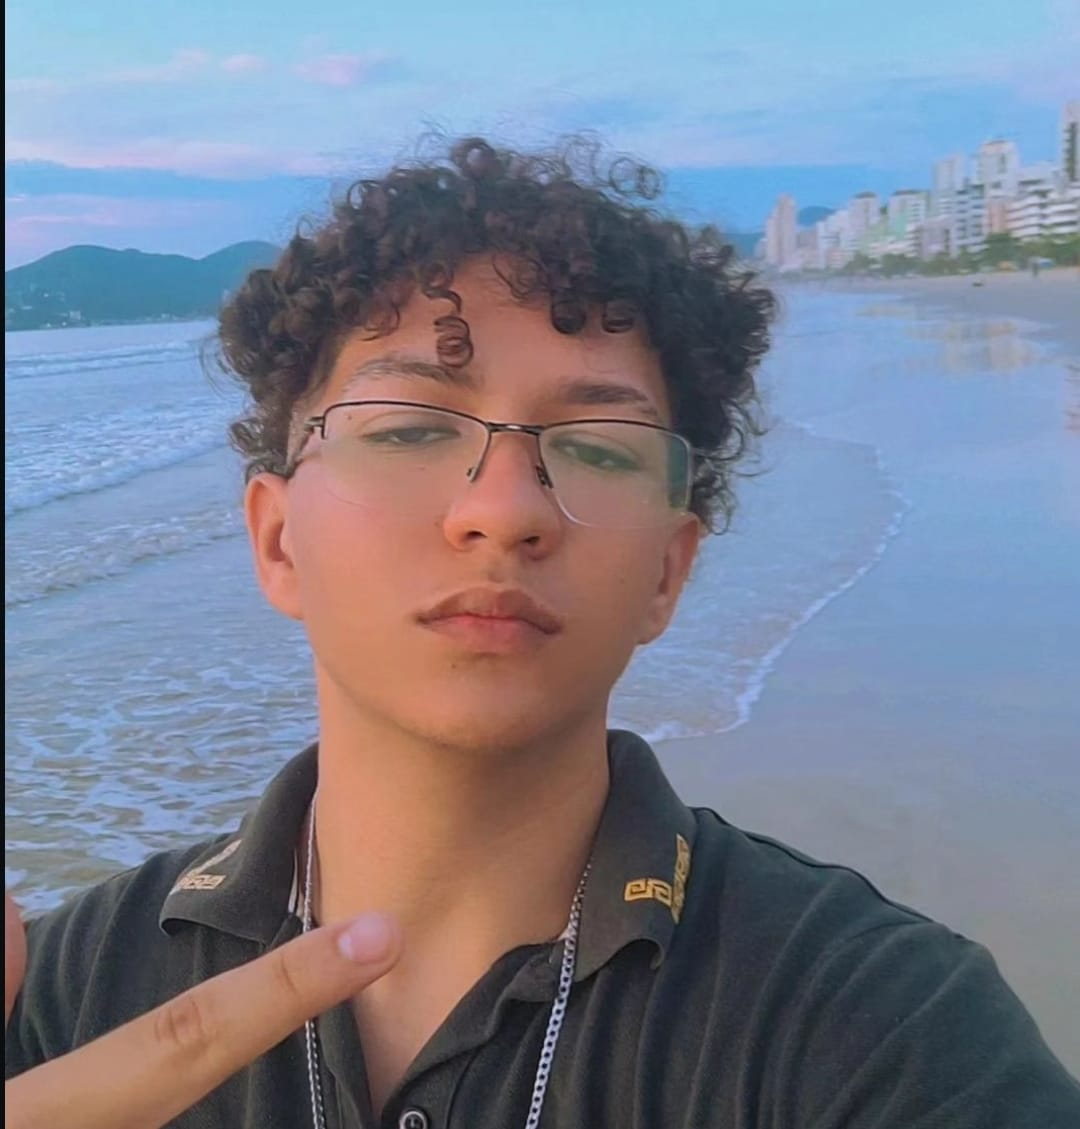
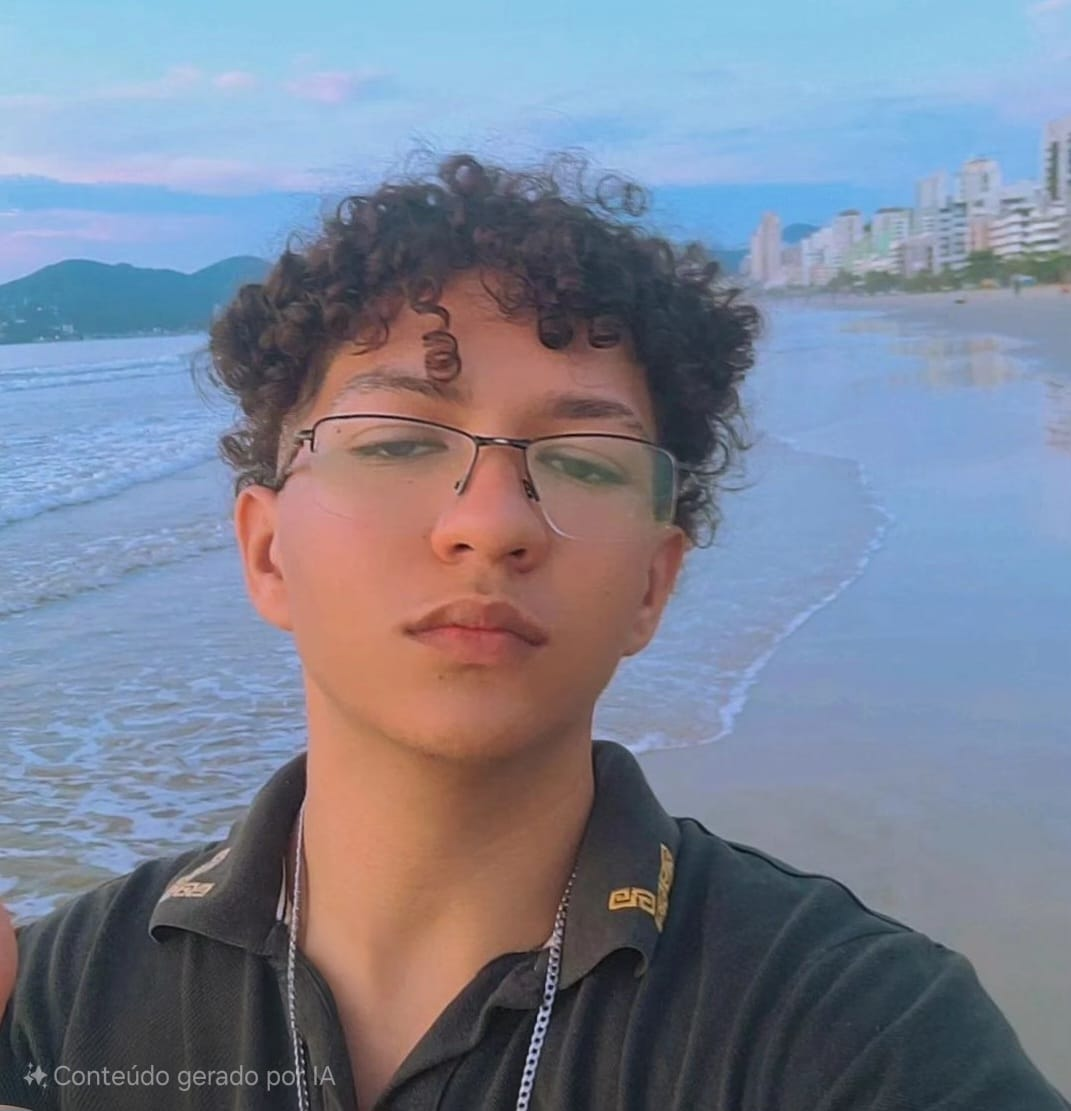
Add files via upload

diff --git a/index.html b/index.html
@@ -15,8 +15,8 @@
         <div class="profile">
             <div class="info">
                 <h1>Igor Fellipe S. Gato</h1>
-                <h3>Eng. de Software</h3>
-                <h4>+55 (43) 98411-9082 &nbsp; &nbsp; &nbsp; &nbsp; &nbsp; &nbsp; igorfellipesantos03@gmail.com</h4>
+                <h3>Engenheiro de Software</h3>
+                <h4>igorfellipesantos03@gmail.com</h4>
                 <h2>Work Experience</h2>
                 <h5>Education</h5>
                 <h6>Skills</h6>
@@ -39,19 +39,19 @@
                             </div>
                             <div class="responsa">
                                 <ul class="activities">
-                                    <li>Help Desk</li>
+                                    <li>Service Desk</li>
                                     <li>Windows</li>
-                                    <li>Servidores</li>
+                                    <li>Remote Acess</li>
                                 </ul>
 
                                 <ul class="activities2">
                                     <li>AD</li>
                                     <li>SAP</li>
-                                    <li>Suporte</li>
+                                    <li>Virtual Machine</li>
                                 </ul>
                             </div>
                             <div class="data">
-                                <p class="data">Out 2023 - Atual</p>
+                                <p class="data">Out 2023 - Mai 2025</p>
                             </div>
                             <div class="local">
                                 <p class="local">Londrina, PR</p>
@@ -152,9 +152,9 @@
                             <h1>Conhecimentos</h1>
                             <div class="skill-info">
                                 <ul>
-                                    <li>Java, JavaScript, Html, C++, Python</li>
+                                    <li>Java, JavaScript, Html, PHP, SQL, POO</li>
                                     <li>Metodologias ágeis</li>
-                                    <li>Programação orientada a Objetos</li>
+                                    <li>Engenharia de Software</li>
                                 </ul>
                             </div>
                         </div>
@@ -162,8 +162,8 @@
                 </div>
 
             </div>
-                <h8>Hobby</h8>
-                <h9>Design./..Series./ ..Filmes./ ..Video Game./ ..Festas</h9>
+                <h8>Extras</h8>
+                <h9>Design./ ..Redes./ ..Games./ ..Editor de Video</h9>
             </div>
 
 </body>

diff --git a/README.md b/README.md
@@ -1,0 +1,22 @@
+Currículo Igor Fellipe - Melhorias e Responsividade
+Bem-vindo ao repositório do projeto de melhoria do currículo do Igor Fellipe! Este projeto foi desenvolvido por mim e pelo Igor Fellipe com o objetivo de aprimorar o currículo dele, identificando e corrigindo dois problemas principais: a falta de responsividade da página e a organização confusa do código HTML.
+Sobre o Projeto
+O currículo original apresentava:
+Falta de responsividade: A página não se adaptava bem a diferentes tamanhos de tela, como em dispositivos móveis.
+
+HTML desorganizado: O código estava com indentação inconsistente e estrutura pouco clara, dificultando a manutenção.
+
+Nosso trabalho focou em:
+Tornar a página responsiva para melhorar a experiência em diversos dispositivos.
+
+Reorganizar o HTML para torná-lo mais legível e bem estruturado.
+
+Estrutura do Repositório
+Branch main: Contém os códigos originais do currículo, antes das melhorias.
+
+Branch correcao: Contém o código atualizado, com as melhorias de responsividade e organização do HTML.
+
+
+Pedro Henrique Ramoni Ouro: Responsável pela responsividade
+
+Igor Fellipe dos Santos Gato: Responsável pela organização do HTML
